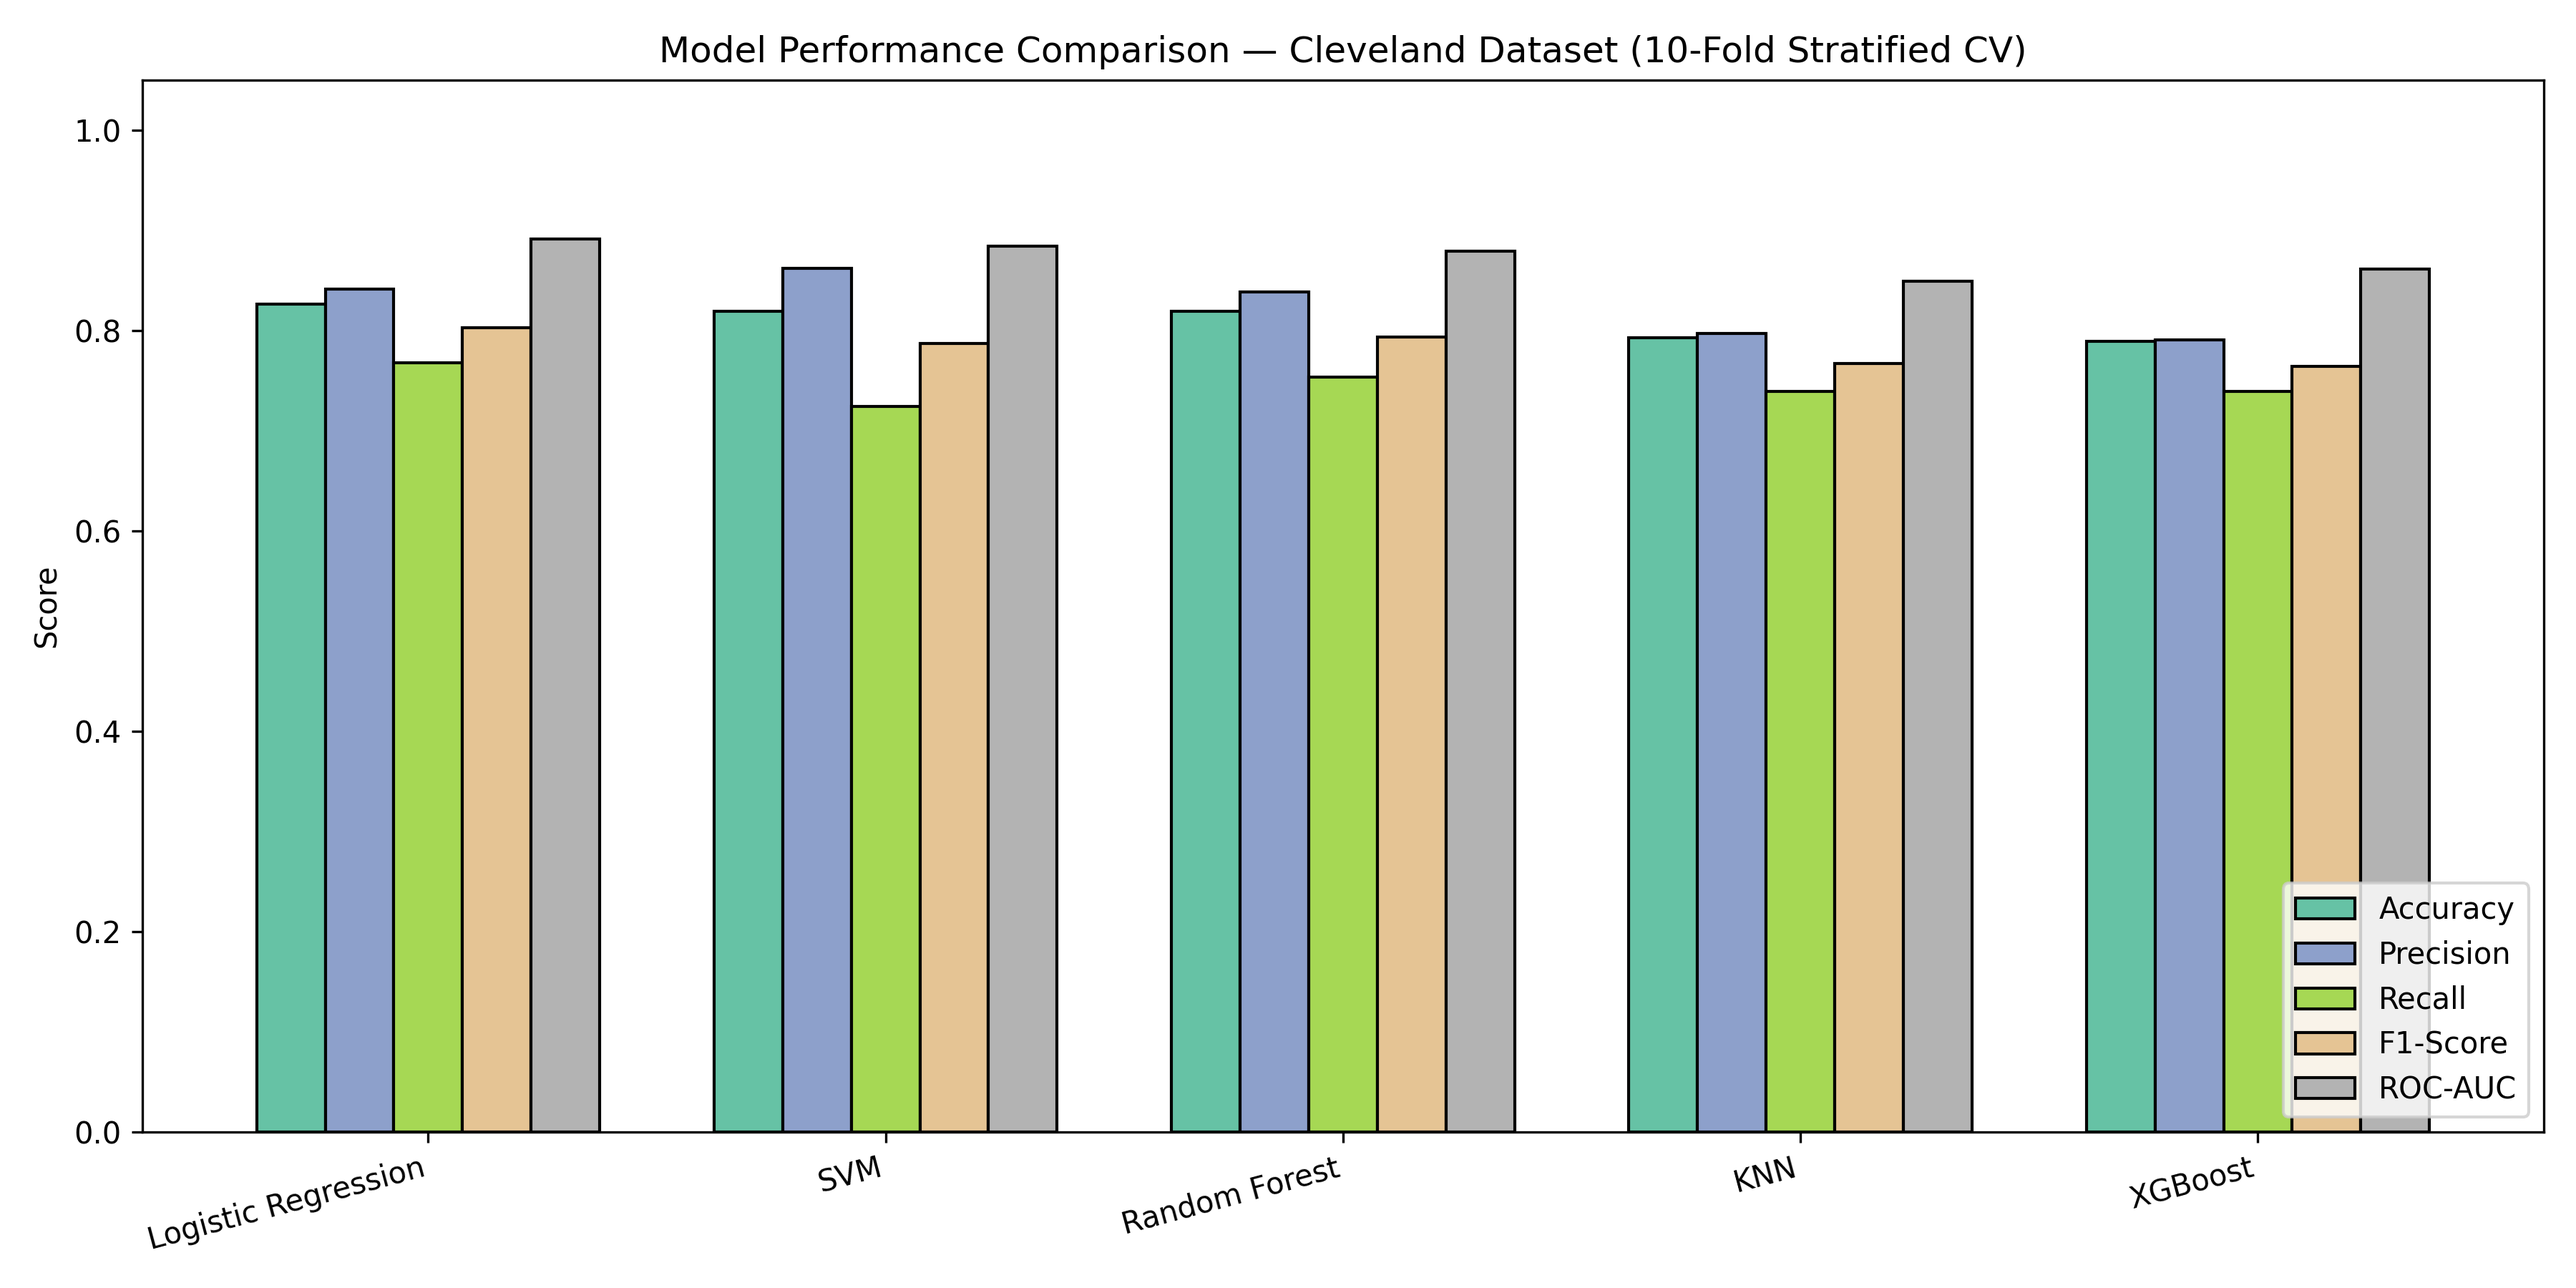
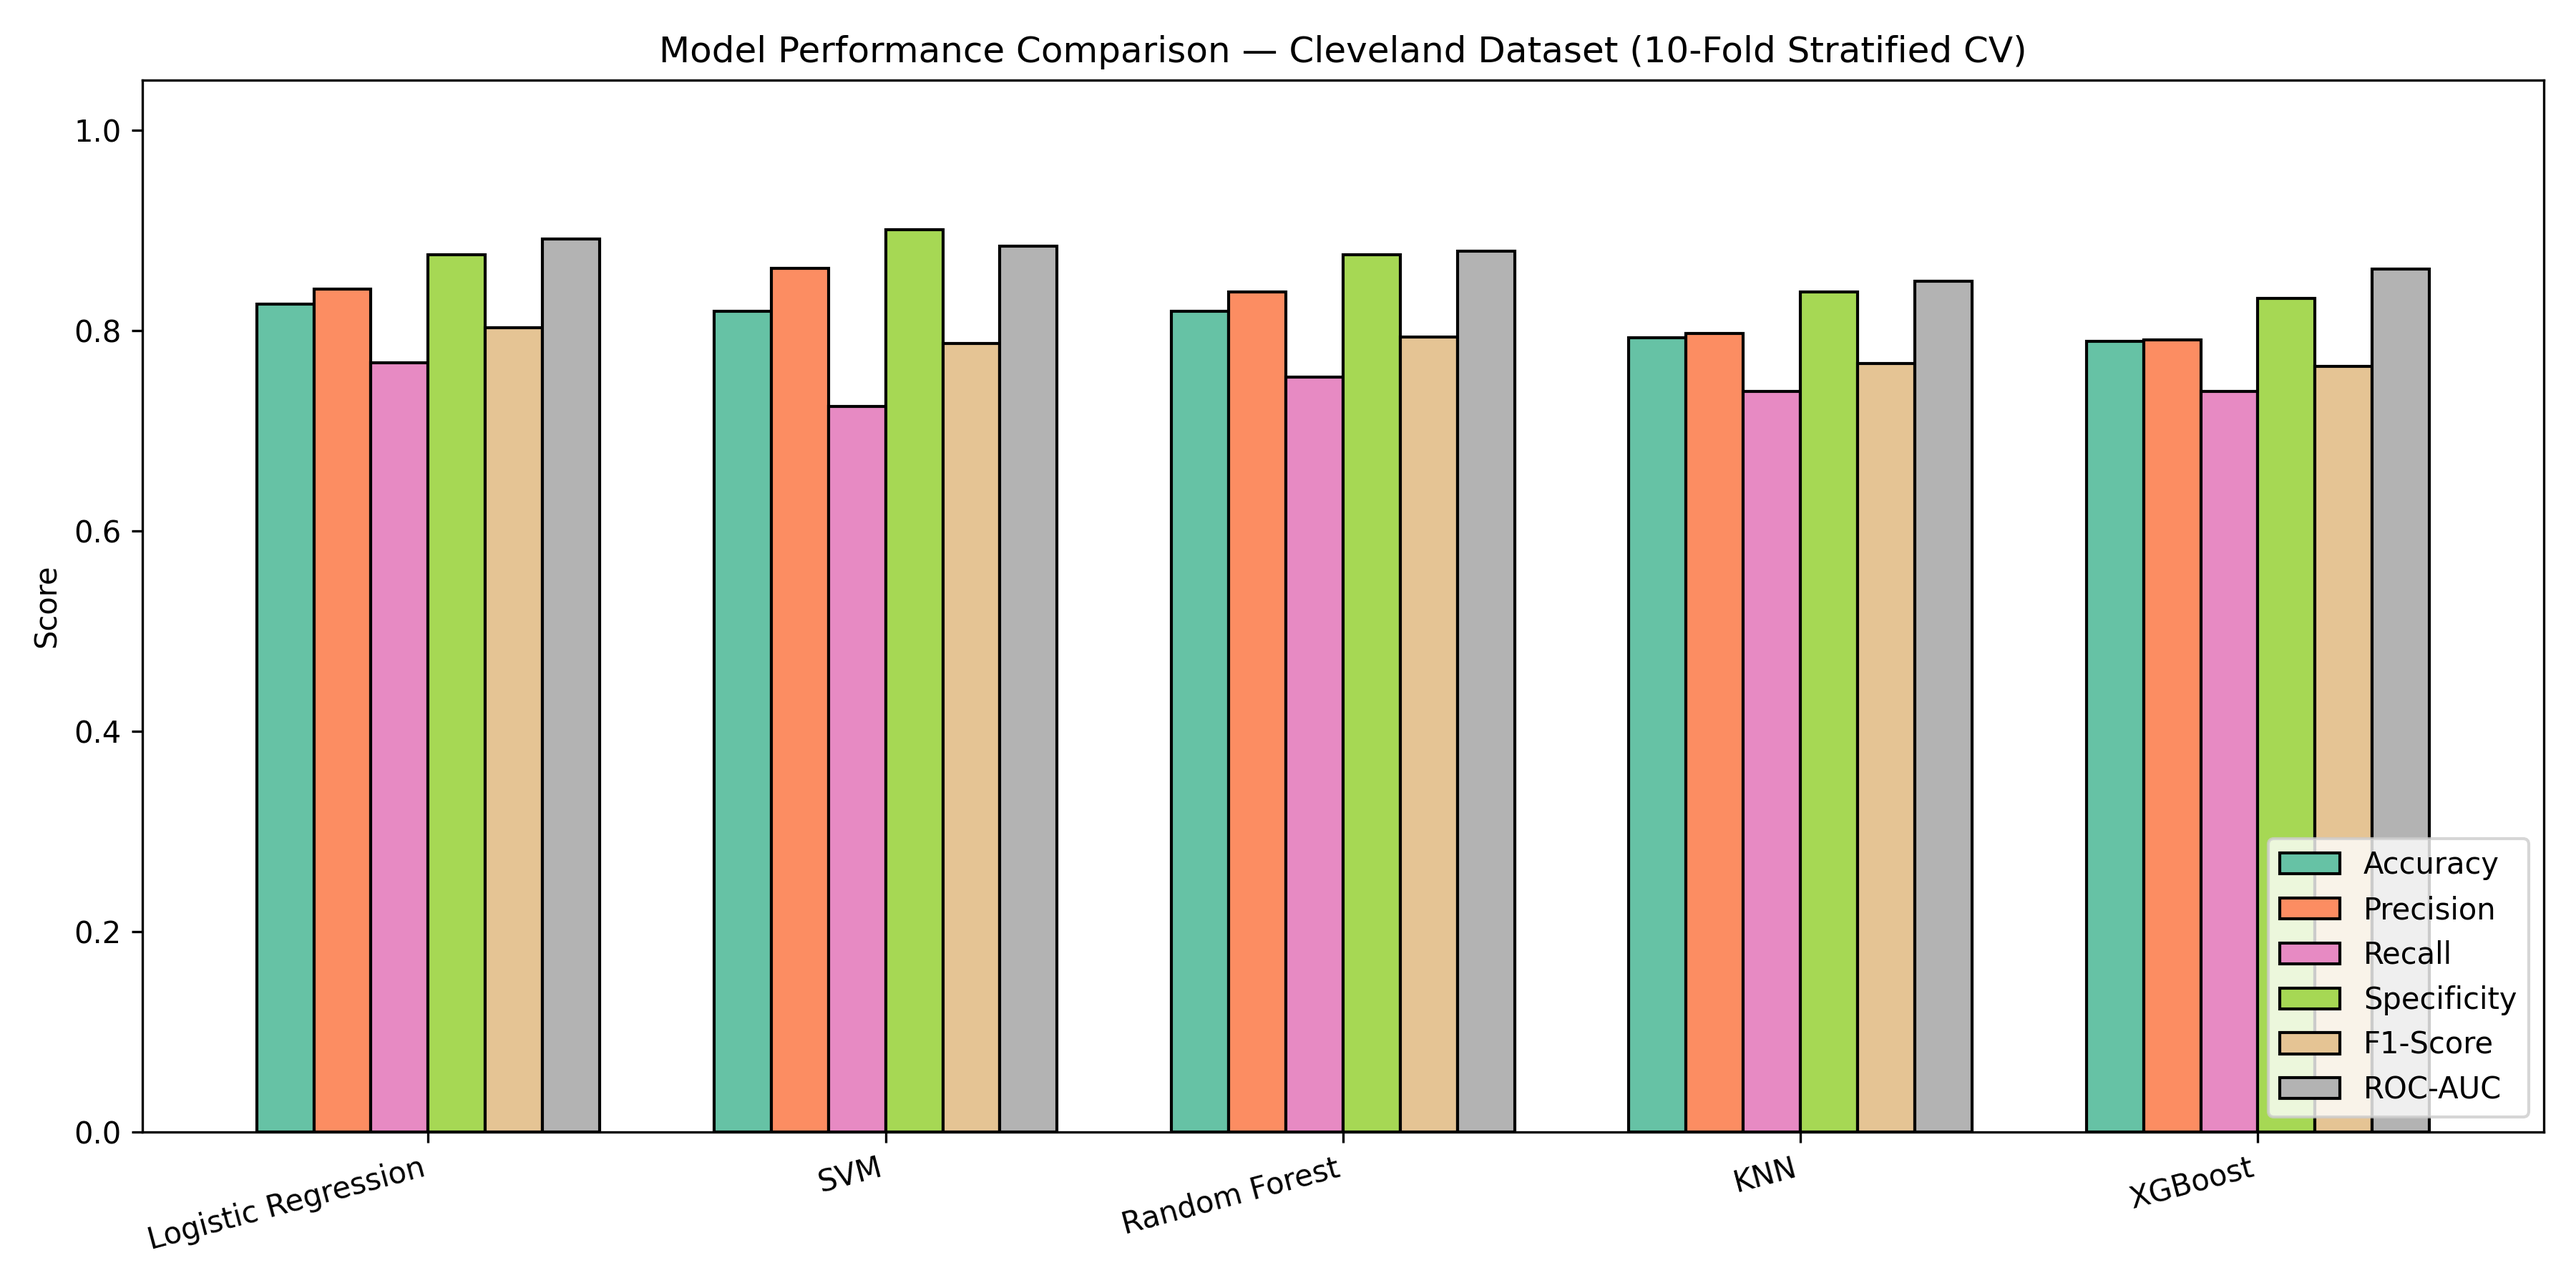
added specificity metric

diff --git a/model_training.py b/model_training.py
@@ -49,20 +49,24 @@ def evaluate_models(X, y, models, cv_folds=10):
         y_pred  = cross_val_predict(model, X, y, cv=skf, method="predict")
         y_proba = cross_val_predict(model, X, y, cv=skf, method="predict_proba")[:, 1]
 
+        cm = confusion_matrix(y, y_pred)
+        tn, fp, fn, tp = cm.ravel()
+
         results[name] = {
-            "Accuracy":  accuracy_score(y, y_pred),
-            "Precision": precision_score(y, y_pred, zero_division=0),
-            "Recall":    recall_score(y, y_pred, zero_division=0),
-            "F1-Score":  f1_score(y, y_pred, zero_division=0),
-            "ROC-AUC":   roc_auc_score(y, y_proba),
-            "Confusion Matrix": confusion_matrix(y, y_pred),
+            "Accuracy":    accuracy_score(y, y_pred),
+            "Precision":   precision_score(y, y_pred, zero_division=0),
+            "Recall":      recall_score(y, y_pred, zero_division=0),
+            "Specificity": tn / (tn + fp) if (tn + fp) > 0 else 0,
+            "F1-Score":    f1_score(y, y_pred, zero_division=0),
+            "ROC-AUC":     roc_auc_score(y, y_proba),
+            "Confusion Matrix": cm,
         }
 
     return results
 
 
 def plot_metric_comparison(results, save_dir):
-    metrics = ["Accuracy", "Precision", "Recall", "F1-Score", "ROC-AUC"]
+    metrics = ["Accuracy", "Precision", "Recall", "Specificity", "F1-Score", "ROC-AUC"]
     model_names = list(results.keys())
 
     data = {m: [results[n][m] for n in model_names] for m in metrics}
@@ -99,14 +103,14 @@ def plot_confusion_matrices(results, save_dir):
 
 
 def save_summary_table(results, save_dir):
-    metrics = ["Accuracy", "Precision", "Recall", "F1-Score", "ROC-AUC"]
+    metrics = ["Accuracy", "Precision", "Recall", "Specificity", "F1-Score", "ROC-AUC"]
     rows = []
     for name, res in results.items():
         rows.append([name] + [round(res[m], 4) for m in metrics])
 
     df = pd.DataFrame(rows, columns=["Model"] + metrics)
 
-    fig, ax = plt.subplots(figsize=(10, 2.5))
+    fig, ax = plt.subplots(figsize=(12, 2.5))
     ax.axis("off")
     ax.set_title("Model Evaluation Results — Cleveland Dataset (10-Fold Stratified CV)",
                  fontsize=13, fontweight="bold", pad=12)
